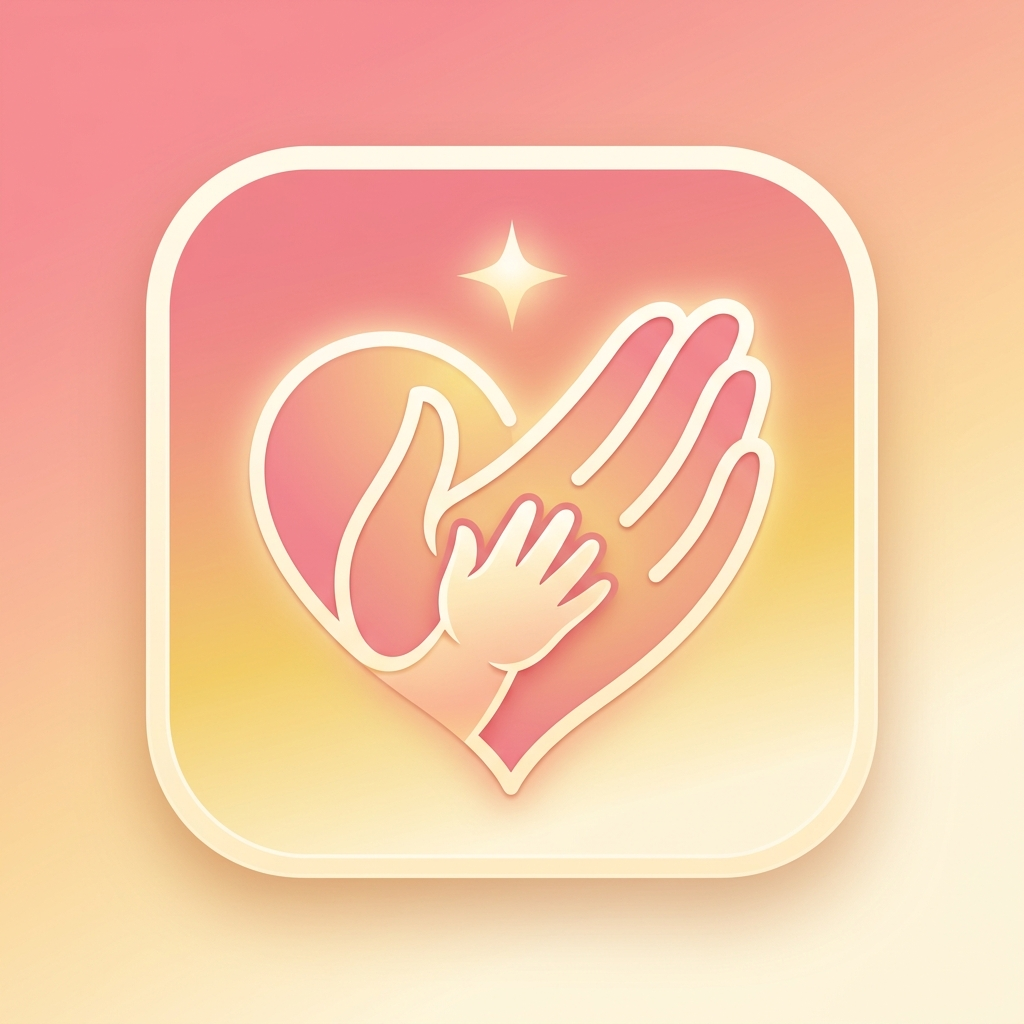
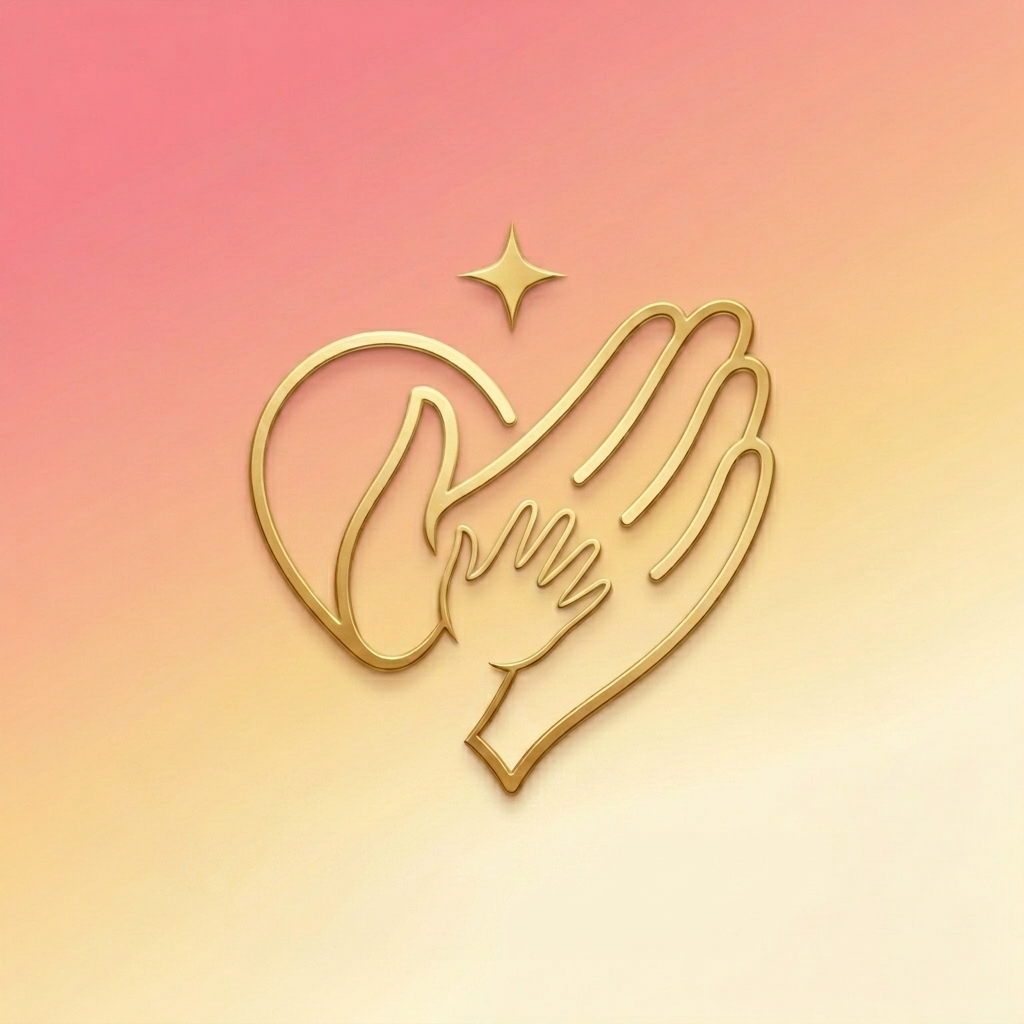
style: fix z-index stacking context for user dropdown and chat popup

Changed region(s): [[0.125, 0.125, 0.875, 0.9375]]

diff --git a/src/app/page.tsx b/src/app/page.tsx
@@ -88,7 +88,9 @@ export default function Home() {
         }`} />
 
       {/* Header */}
-      <header className="w-full max-w-7xl mx-auto px-6 py-6 flex items-center justify-between backdrop-blur-sm z-30 border-b border-slate-850/60">
+      <header className={`w-full max-w-7xl mx-auto px-6 py-6 flex items-center justify-between backdrop-blur-sm border-b border-slate-850/60 relative transition-all ${
+        isProfileDropdownOpen ? "z-[110]" : "z-30"
+      }`}>
         <div className="flex items-center gap-3">
           <div className={`w-10 h-10 rounded-xl overflow-hidden shadow-lg flex items-center justify-center ${isDark
             ? "shadow-rose-500/10 bg-slate-950 border border-slate-800"

diff --git a/src/components/PrenatalChatbot.tsx b/src/components/PrenatalChatbot.tsx
@@ -283,7 +283,7 @@ Or share any symptoms (like nausea, fatigue, or contractions) for helpful guides
 
       {/* Chat Drawer Side Panel */}
       <div
-        className={`fixed z-40 transition-all duration-300 ease-out transform shadow-2xl flex flex-col backdrop-blur-2xl border border-slate-850/80 bg-slate-950/90
+        className={`fixed z-100 transition-all duration-300 ease-out transform shadow-2xl flex flex-col backdrop-blur-2xl border border-slate-850/80 bg-slate-950/90
           bottom-24 right-4 left-4 rounded-2xl h-[480px] max-h-[calc(100dvh-130px)]
           sm:left-auto sm:right-6 sm:w-[400px] sm:h-[550px] sm:max-h-[calc(100dvh-120px)]
           ${isOpen ? "translate-y-0 opacity-100 scale-100" : "translate-y-12 opacity-0 scale-95 pointer-events-none"}